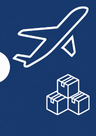
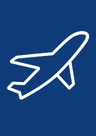
update uploaded files

Changed region(s): [[0.0, 0.0294, 0.9688, 0.8529]]

diff --git a/web_bill_2nd.html b/web_bill_2nd.html
@@ -537,9 +537,9 @@
   .bill-panel-head { background: #fff; padding: 14px 18px 12px; display: flex; align-items: center; justify-content: space-between; gap: 12px; border-bottom: 1px solid #eee; }
   .bill-panel-title { color: var(--navy); font-size: 14px; line-height: 1.25; font-weight: 700; letter-spacing: 0; }
   .bill-panel-sub { color: #666; font-size: 12px; font-weight: 500; white-space: nowrap; }
-  .bill-panel-body { padding: 12px 14px 16px; }
+  .bill-panel-body { padding: 0; }
   .fee-cost-card { border: 0; border-radius: 0; overflow: visible; background: #fff; }
-  .fee-row { display: flex; align-items: center; justify-content: space-between; gap: 8px; min-height: 46px; padding: 11px 14px; border-bottom: 1px solid #f0f2f5; background: #fff; }
+  .fee-row { display: flex; align-items: center; justify-content: space-between; gap: 8px; padding: 11px 18px; border-bottom: 1px solid #f0f2f5; background: #fff; }
   .fee-row:last-child { border-bottom: none; }
   .fee-row-left { display: flex; align-items: center; min-width: 0; }
   .fee-row-label { font-size: 13px; color: #333; font-weight: 600; white-space: nowrap; }
@@ -550,7 +550,7 @@
   .fee-toggle-btn[aria-expanded="true"] i { transform: rotate(180deg); }
   .fee-row-toggle { cursor: pointer; }
   .fee-row-action { display: inline-flex; align-items: center; justify-content: flex-end; gap: 6px; }
-  .fee-detail { display: none; padding: 2px 14px 12px 14px; border-bottom: 1px solid #f0f2f5; background: #fbfcfe; }
+  .fee-detail { display: none; padding: 2px 18px 12px 26px; border-bottom: 1px solid #f0f2f5; background: #fbfcfe; }
   .fee-detail.is-open { display: block; }
   .fee-detail-list { border-left: 0; padding: 4px 0 0 8px; }
   .fee-extra-item { display: flex; align-items: center; justify-content: space-between; gap: 8px; min-height: 28px; font-size: 12px; color: #666; border-bottom: 1px dashed #d6dce6; }
@@ -558,14 +558,14 @@
   .fee-extra-item strong { font-family: 'Roboto', Pretendard, sans-serif; font-size: 12px; color: #222; font-weight: 500; white-space: nowrap; }
   .fee-extra-item strong.is-active { color: #222; }
   .fee-extra-item strong.is-free { color: var(--green); }
-  .fee-section-title { padding: 14px 0 8px; margin-top: 14px; border-top: 1px solid var(--navy); color: var(--navy); font-size: 13px; line-height: 1.2; font-weight: 700; background: #fff; }
-  .fee-row-benefit { min-height: 44px; padding: 10px 14px; border-bottom: 1px solid #f0f2f5; }
+  .fee-section-title { padding: 14px 18px 8px; border-top: 1px solid var(--navy); border-bottom: 1px solid #f0f2f5; color: var(--navy); font-size: 13px; line-height: 1.2; font-weight: 700; background: #fff; }
+  .fee-row-benefit { padding: 10px 18px; border-bottom: 1px solid #f0f2f5; }
   .fee-row-benefit .fee-row-label { font-size: 13px; font-weight: 600; }
   .fee-row-benefit .fee-row-val { color: var(--rose); }
   .fee-coupon-action { display: inline-flex; align-items: center; justify-content: flex-end; gap: 8px; }
   .panel-earn { background: #fff; }
   .panel-earn .fee-row { border-bottom: none; }
-  .panel-earn-body { display: none; padding: 0 14px 12px 26px; border-bottom: 1px solid #f0f2f5; background: #fbfcfe; }
+  .panel-earn-body { display: none; padding: 0 18px 12px 26px; border-bottom: 1px solid #f0f2f5; background: #fbfcfe; }
   .panel-earn-body.is-open { display: block; }
   .benefit-row { display: flex; align-items: center; justify-content: space-between; gap: 10px; padding: 3px 0; font-size: 12px; }
   .benefit-row-lbl { display: flex; align-items: center; gap: 6px; color: #333; font-weight: 500; }
@@ -573,10 +573,10 @@
   .benefit-row-val.is-discount { color: var(--rose); font-weight: 700; text-decoration: none; }
   .grade-badge-free { display: inline-flex; align-items: center; height: 16px; padding: 0 6px; border-radius: 3px; background: #eaf7ed; color: var(--green); font-family: inherit; font-size: 10px; font-weight: 700; }
   .fee-badge-rate { display: inline-flex; align-items: center; height: 16px; margin-left: 6px; padding: 0 6px; border-radius: 3px; background: #FCEBEB; color: var(--rose); font-family: inherit; font-size: 10px; font-weight: 700; vertical-align: middle; }
-  .fee-summary-box { margin-top: 14px; padding: 14px 14px 16px; border: 1px solid #cfd8e6; border-radius: 6px; background: #f8fafd; }
+  .fee-summary-box { margin: 0; padding: 14px 18px 16px; border: 0; border-radius: 0; background: #f8fafd; }
   .fee-summary-row { display: flex; align-items: center; justify-content: space-between; gap: 10px; padding: 5px 0; font-size: 13px; color: #333; font-weight: 600; }
   .fee-summary-row.is-discount .fee-summary-val { color: var(--rose); }
-  .fee-summary-divider { border-top: 1px dashed #bfc9d8; margin: 8px 0 8px; }
+  .fee-summary-divider { border-top: 1px dashed #bfc9d8; margin: 8px 0; }
   .fee-summary-total { display: flex; align-items: center; justify-content: space-between; gap: 10px; padding-top: 2px; color: var(--navy); font-size: 15px; font-weight: 700; }
   .fee-summary-total .fee-summary-val { font-family: 'Roboto', Pretendard, sans-serif; color: var(--rose); font-size: 20px; font-weight: 700; white-space: nowrap; }
   .amount-won-sub { margin-left: 3px; color: #8b929c; font-size: 13px; font-weight: 600; vertical-align: baseline; }
